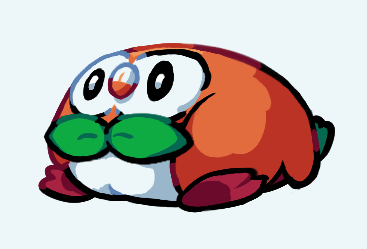
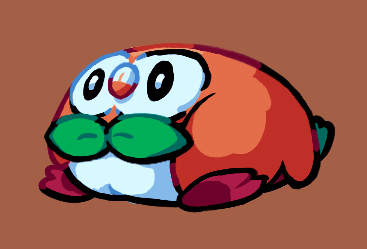
More colorful backgrounds

diff --git a/_posts/art/2020-10-09-titanic-plains-low-poly.md b/_posts/art/2020-10-09-titanic-plains-low-poly.md
@@ -9,7 +9,9 @@ tail_includes: ''
 
 title: Titanic Plains - Low Poly
 tags: [3D,Blender,Unity]
-image: /assets/img/posts/art-gallery/titanic-plains-low-poly/titanic_plains_low_poly_1.png
+images: [ /assets/img/posts/art-gallery/titanic-plains-low-poly/titanic_plains_low_poly_1.png,
+          /assets/img/posts/art-gallery/titanic-plains-low-poly/titanic_plains_low_poly_2.png,
+          /assets/img/posts/art-gallery/titanic-plains-low-poly/titanic_plains_low_poly_3.png ]
 ---
 
 * 3D model and render of a low poly interpretation of the [Titanic Plains](https://riskofrain2.fandom.com/wiki/Titanic_Plains) from [*Risk of Rain 2*](https://www.riskofrain.com/). <br>
@@ -18,7 +20,7 @@ image: /assets/img/posts/art-gallery/titanic-plains-low-poly/titanic_plains_low_
 
 ![](/assets/img/posts/art-gallery/titanic-plains-low-poly/titanic_plains_low_poly_1.png)
 ![](/assets/img/posts/art-gallery/titanic-plains-low-poly/titanic_plains_low_poly_2.png)
-![](/assets/img/posts/art-gallery/titanic-plains-low-poly/titanic_plains_low_poly_2.png)
+![](/assets/img/posts/art-gallery/titanic-plains-low-poly/titanic_plains_low_poly_3.png)
 
 <video width="100%" controls="controls">
   <source src="/assets/img/posts/art-gallery/titanic-plains-low-poly/titanic_plains_low_poly_video.mp4" type="video/mp4">

diff --git a/_posts/art/2021-01-09-day-night-cycle-landscape.md b/_posts/art/2021-01-09-day-night-cycle-landscape.md
@@ -10,7 +10,9 @@ tail_includes: ''
 title: Day/Night Cycle Landscape
 tags: [3D,Blender,Unity]
 images: [ /assets/img/posts/art-gallery/low-poly-landscape/low_poly_landscape_1.png,
-          /assets/img/posts/art-gallery/low-poly-landscape/low_poly_landscape_3.png ]
+          /assets/img/posts/art-gallery/low-poly-landscape/low_poly_landscape_2.png,
+          /assets/img/posts/art-gallery/low-poly-landscape/low_poly_landscape_3.png,
+          /assets/img/posts/art-gallery/low-poly-landscape/low_poly_landscape_4.png ]
 ---
 
 * 3D model and render of a landscape with a day/night cycle. <br>

diff --git a/_posts/art/2022-06-25-space-hat-kit.md b/_posts/art/2022-06-25-space-hat-kit.md
@@ -9,7 +9,7 @@ tail_includes: ''
 
 title: Space Hat Kid
 tags: [Digital,Photoshop]
-image: /assets/img/posts/art-gallery/hat-kid/hat_kid_1.png
+image: /assets/img/posts/art-gallery/hat-kid/hat_kid_pres.png
 ---
 
 * Digital art of [Hat Kid](https://ahatintime.fandom.com/wiki/Hat_Kid), from [*A Hat in Time*](https://www.gearsforbreakfast.com/games/a-hat-in-time/).<br>

diff --git a/_posts/art/2023-11-12-zigoton-model.md b/_posts/art/2023-11-12-zigoton-model.md
@@ -9,7 +9,7 @@ tail_includes: ''
 
 title: Zigoton Model
 tags: [3D,Blender]
-image: /assets/img/posts/art-gallery/zigoton-model/zigoton_render.png
+image: /assets/img/posts/art-gallery/zigoton-model/zigoton_render_bg.png
 ---
 
 * Pixel art of a [Zigoton](https://patapon.fandom.com/wiki/Zigotons), from [*Patapon*](https://en.wikipedia.org/wiki/Patapon). <br>

diff --git a/_posts/art/2023-07-16-minecraft-skin.md b/_posts/art/2023-07-16-minecraft-skin.md
@@ -9,7 +9,7 @@ tail_includes: ''
 
 title: Minecraft Skin
 tags: [3D,Blockbench,Pixel Art]
-image: /assets/img/posts/art-gallery/minecraft-skin/minecraft_skin_1.png
+image: /assets/img/posts/art-gallery/minecraft-skin/minecraft_skin_pres.png
 ---
 
 * Pixel art of a self-portrait [*Minecraft*](https://www.minecraft.net/) skin. <br>
